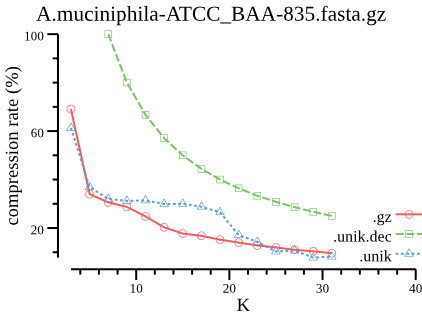
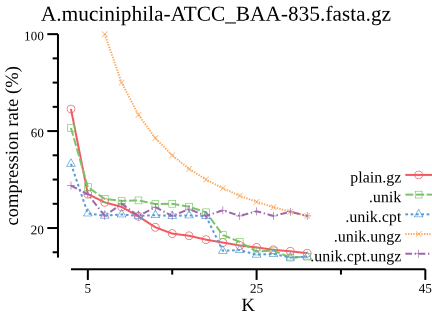
update cr comparison

diff --git a/README.md b/README.md
@@ -96,32 +96,31 @@ format convertion, set operations and searching on unique Kmers.
 
 ### Binary file (.unik)
 
-Kmers are saved in gzipped binary file with file extension `.unik`.
+Kmers (represented in `uint64` in RAM ) are serialized in 8-Byte
+(or less Bytes for shorter Kmers in compact format) arrays and
+compressed in gzip format with extension of `.unik`.
 
-Here's the compression rate comparison with `gzip`.
-Plain text of Kmers are exported by `unikmer view` and
-compressed by `gzip` (default parameters).
-Decompressed `.unik` (`.unik.dec`) format is also compared.
-
-    $ f=Ecoli-MG1655.fasta.gz
-    $ ./cr.sh $ > $f.cr.tsv
-
-    # plot
-    $ csvtk cut -t -f 1,6-8 $f.cr.tsv \
-        | csvtk -t rename2 -f 2-4 -p "\(%\)" \
-        | csvtk -t gather  -k group  -v value -f 2-4 \
-        | csvtk plot line -t -x 1 -y 3 -g 2 \
-            --x-min 3 --x-max 40  --y-max 100 --ylab "compression rate (%)" \
-            --width 4.4 --height 3.3 \
-            --title $f \
-        > $f.cr.tsv.png
+#### Compression rate comparison
 
 ![Ecoli-MG1655.fasta.gz.cr.tsv.png](testdata/Ecoli-MG1655.fasta.gz.cr.tsv.png)
 ![A.muciniphila-ATCC_BAA-835.fasta.gz.cr.tsv.png](testdata/A.muciniphila-ATCC_BAA-835.fasta.gz.cr.tsv.png)
 
-Although the `.unik` file format, i.e., gzipped `uint64`s, does not have
-absolute advantage in compression rate compared to gzipped plain Kmers,
-it's faster for parsing and decreases RAM usage.
+label           |encoded-kmer<sup>a</sup>|gzip-compressed<sup>b</sup>|compact-format<sup>c</sup>|comment
+:---------------|:----------------------:|:-------------------------:|:------------------------:|:------------------------------------------------------
+`plain`         |                        |                           |                          |plain text
+`plain.gz`      |                        |✔                          |                          |gzipped plain text
+`.unik`         |✔                       |✔                          |                          |gzipped encoded kmer in fixed-length byte array
+`.unik.cpt`     |✔                       |✔                          |✔                         |gzipped encoded kmer in shorter fixed-length byte array
+`.unik.ungz`    |✔                       |                           |                          |encoded kmer in fixed-length byte array
+`.unik.cpt.ungz`|✔                       |                           |✔                         |encoded kmer in shorter fixed-length byte array
+
+- <sup>a</sup> One Kmer is encoded as `uint64` and serialized in 8 Bytes.
+- <sup>b</sup> Kmers file is compressed in gzip format by default,
+  users can switch on global option `-C/--no-compress` to output non-compressed file.
+- <sup>c</sup> One Kmer is encoded as `uint64` and serialized in 8 Bytes by default.
+ However few Bytes are needed for short Kmers, e.g., 4 Bytes are enough for
+  15-mers (30 bits). This makes the file more compact with smaller file size,
+  controled by global option `-c/--compact `.
 
 ### Quick Start
 

diff --git a/testdata/doc.md b/testdata/doc.md
@@ -1,0 +1,15 @@
+## run
+
+    f=Ecoli-MG1655.fasta.gz
+    # f=A.muciniphila-ATCC_BAA-835.fasta.gz
+    ./cr.sh $f > $f.cr.tsv
+
+    # plot
+    csvtk cut -t -f 1,8-12 $f.cr.tsv \
+        | csvtk -t rename2 -f 2-6 -p "\(%\)" \
+        | csvtk -t gather  -k group  -v value -f 2-6 \
+        | csvtk plot line -t -x 1 -y 3 -g 2 \
+            --x-min 3 --x-max 45  --y-max 100 --ylab "compression rate (%)" \
+            --width 4.5 --height 3.3 \
+            --title $f \
+        > $f.cr.tsv.png 
